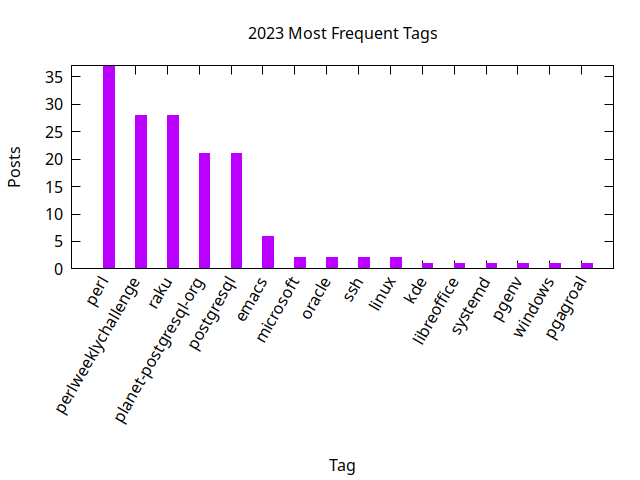
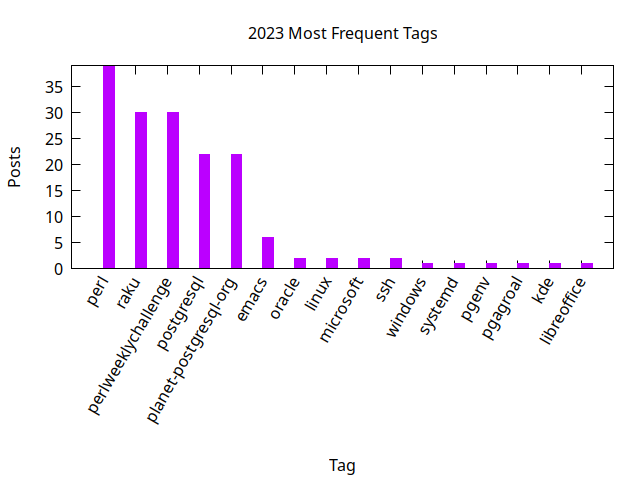
Stats update

diff --git a/_includes/stats/2023.md b/_includes/stats/2023.md
@@ -1,26 +1,26 @@
 <a name="2023" />
 ## 2023 (work in progress)
 
-**67 total posts** have been written on 2023.
+**70 total posts** have been written on 2023.
 There have been *16 different tags* used, the most
 popular being (sorted by number of posts):
  
-- *perl* (37 posts)  
-- *perlweeklychallenge* (28 posts)  
-- *raku* (28 posts)  
-- *planet-postgresql-org* (21 posts)  
-- *postgresql* (21 posts)  
+- *perl* (39 posts)  
+- *raku* (30 posts)  
+- *perlweeklychallenge* (30 posts)  
+- *postgresql* (22 posts)  
+- *planet-postgresql-org* (22 posts)  
 - *emacs* (6 posts)  
-- *microsoft* (2 posts)  
 - *oracle* (2 posts)  
-- *ssh* (2 posts)  
 - *linux* (2 posts)  
-- *kde* (1 posts)  
-- *libreoffice* (1 posts)  
+- *microsoft* (2 posts)  
+- *ssh* (2 posts)  
+- *windows* (1 posts)  
 - *systemd* (1 posts)  
 - *pgenv* (1 posts)  
-- *windows* (1 posts)  
-- *pgagroal* (1 posts).<br/>
+- *pgagroal* (1 posts)  
+- *kde* (1 posts)  
+- *libreoffice* (1 posts).<br/>
 <br/>
 The following is the overall 2023 post ratio by month:
 <br/>
@@ -39,7 +39,7 @@ The following is the overall 2023 post ratio by tag (showing max 30 tags):
 
 <div align="right">
 <small>
-Last generated on 2023-09-08 at 9:48
+Last generated on 2023-09-18 at 17:40
 </small>
 </div>
 
